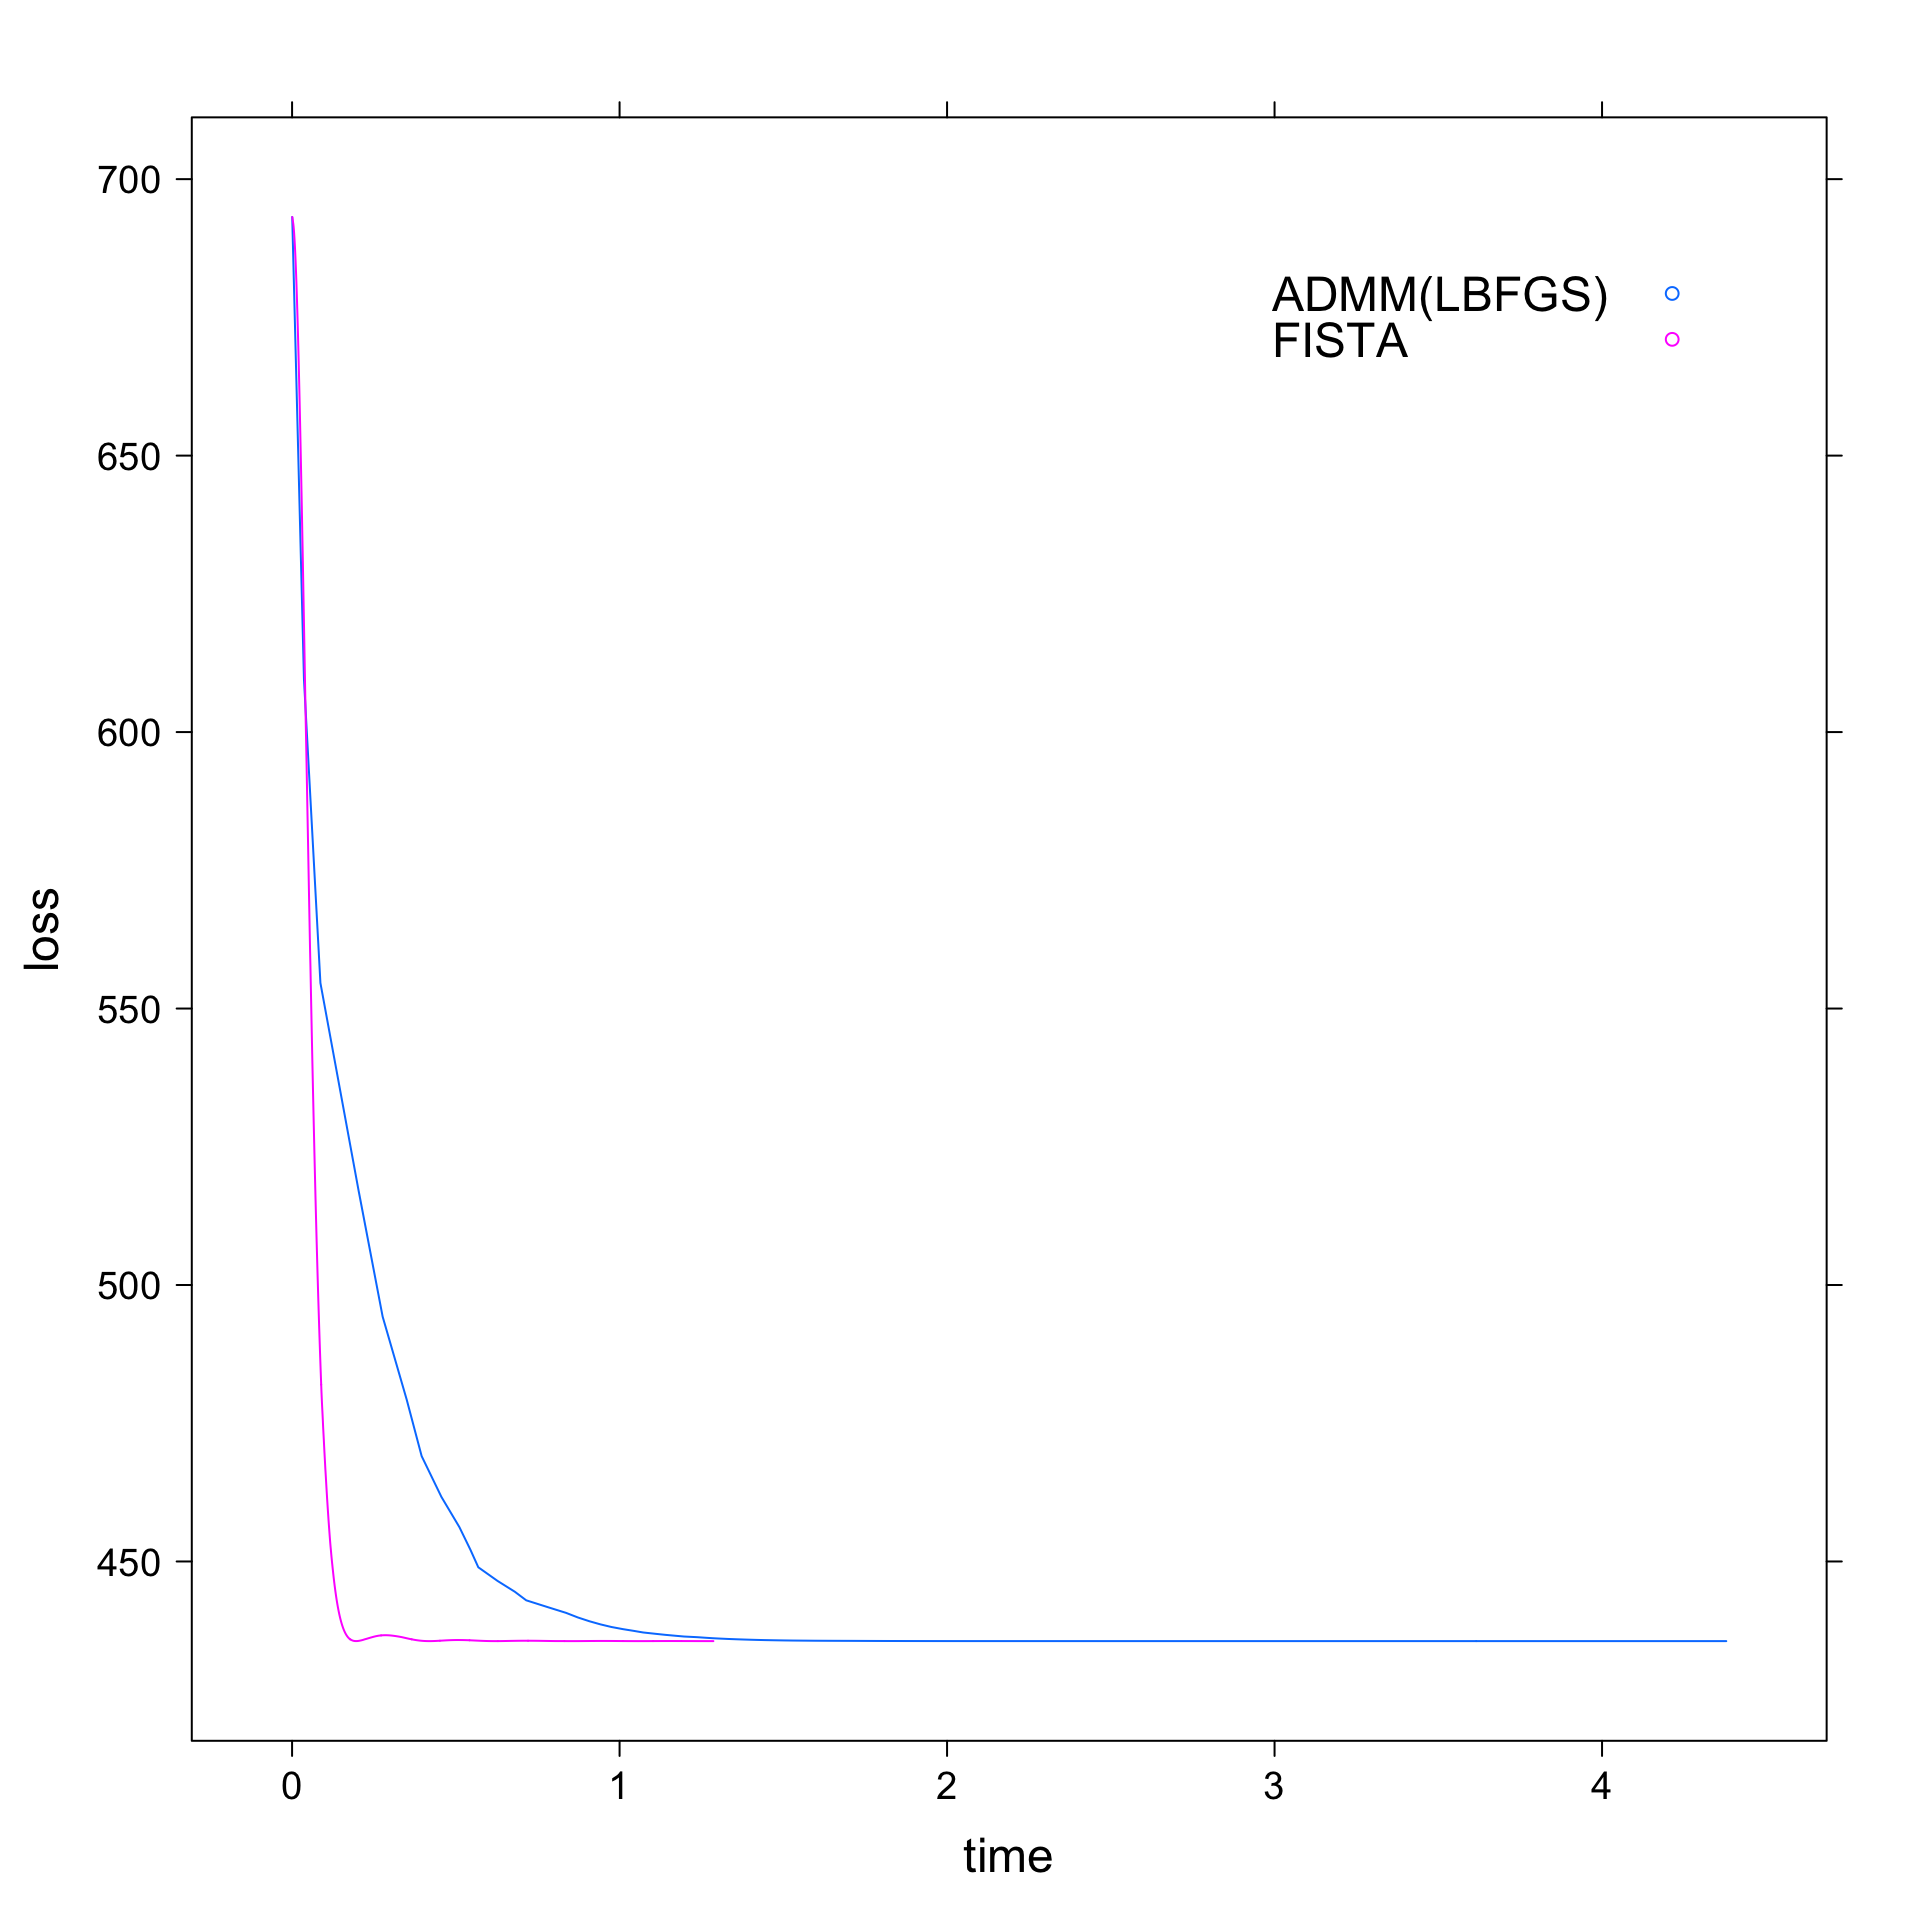
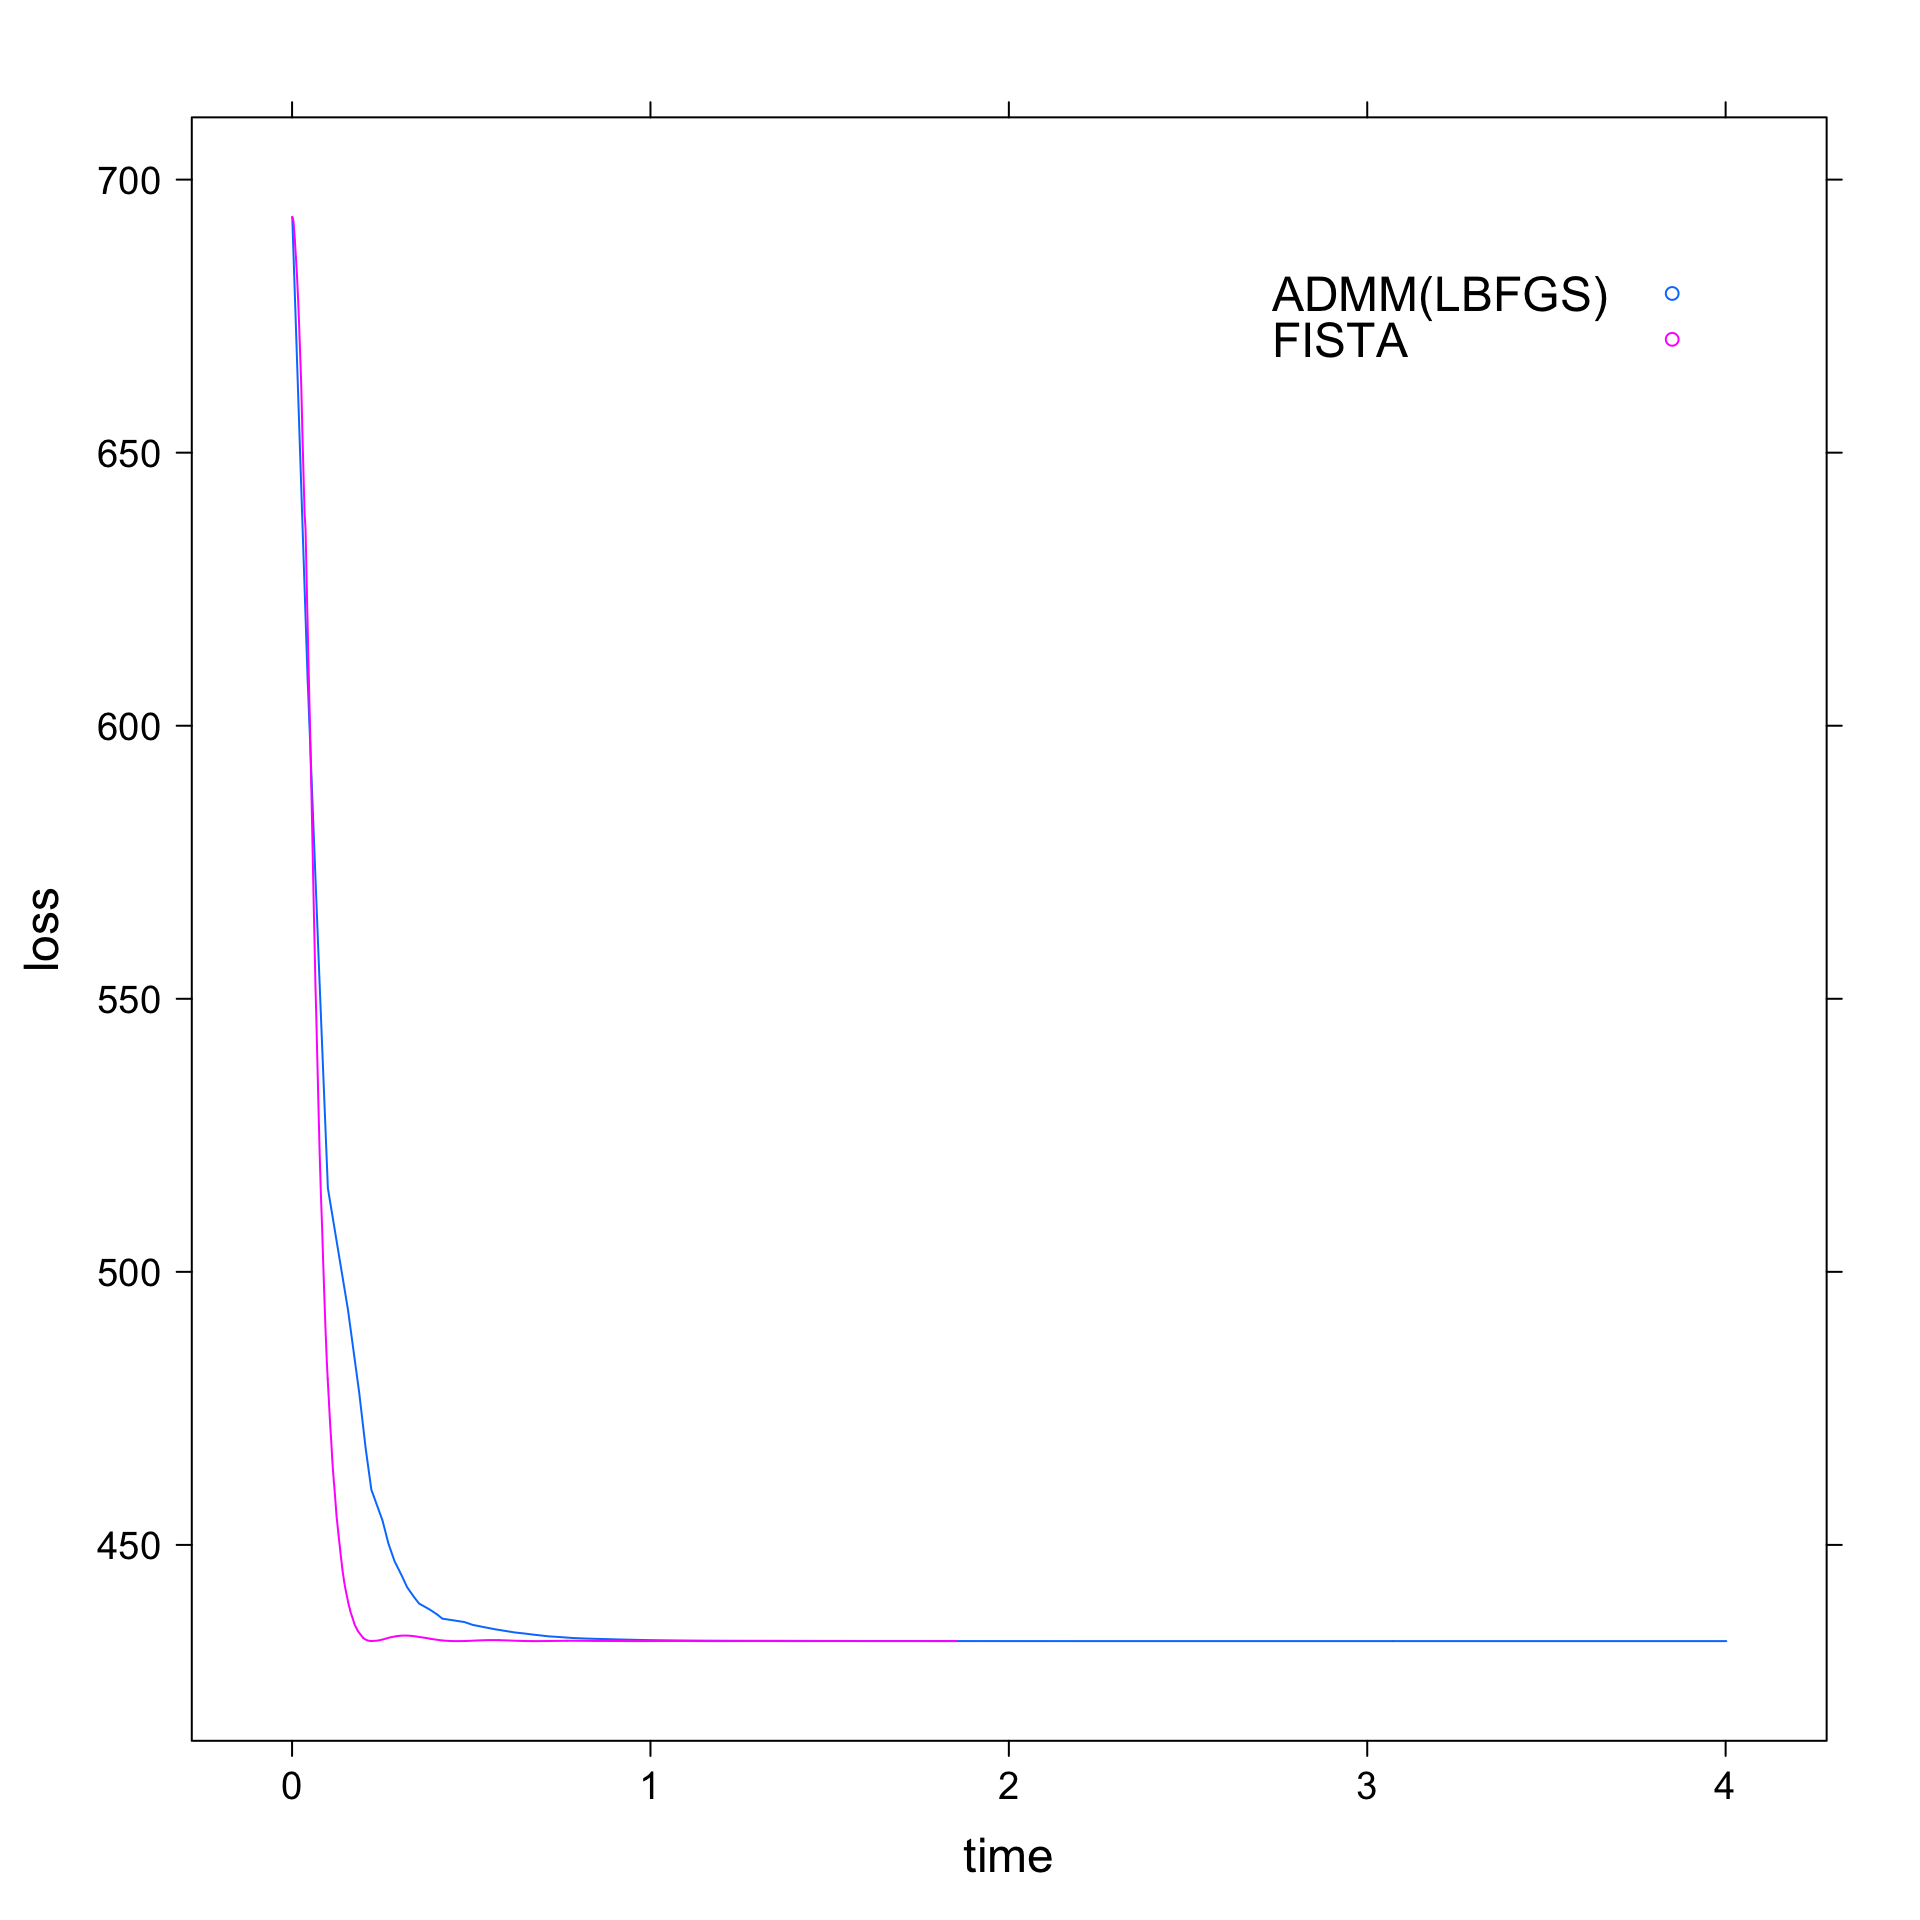
Built site for solvers: 1.0@79e1153

diff --git a/articles/compare_opt_algo.html b/articles/compare_opt_algo.html
@@ -110,9 +110,9 @@
 <div class="sourceCode" id="cb4"><pre class="downlit">
 <span class="co"># Comparing total execution time</span>
 <span class="fu"><a href="https://rdrr.io/r/base/print.html">print</a></span>(<span class="kw">admm_nr</span><span class="op">$</span><span class="kw">total_time</span>)
-<span class="co">#&gt; [1] 0.9589564</span>
+<span class="co">#&gt; [1] 0.9069063</span>
 <span class="fu"><a href="https://rdrr.io/r/base/print.html">print</a></span>(<span class="kw">admm_bfgs</span><span class="op">$</span><span class="kw">total_time</span>)
-<span class="co">#&gt; [1] 3.498741</span>
+<span class="co">#&gt; [1] 3.46496</span>
 </pre></div>
 <p>Now, these fits cannot be directly used to plot as they contain a lot of parameter so we’ll call a utility function that merges the relevant parameter and returns a dataframe.</p>
 <div class="sourceCode" id="cb5"><pre class="downlit">

diff --git a/articles/compare-fista-admm.html b/articles/compare-fista-admm.html
@@ -111,9 +111,9 @@
 <div class="sourceCode" id="cb4"><pre class="downlit">
 <span class="co"># Comparing total execution time</span>
 <span class="fu"><a href="https://rdrr.io/r/base/print.html">print</a></span>(<span class="kw">fista_fit</span><span class="op">$</span><span class="kw">total_time</span>)
-<span class="co">#&gt; [1] 1.287539</span>
+<span class="co">#&gt; [1] 1.85604</span>
 <span class="fu"><a href="https://rdrr.io/r/base/print.html">print</a></span>(<span class="kw">admm_fit</span><span class="op">$</span><span class="kw">total_time</span>)
-<span class="co">#&gt; [1] 4.425858</span>
+<span class="co">#&gt; [1] 4.038133</span>
 </pre></div>
 <p>Now, these fits cannot be directly used to plot as they contain a lot of parameter so we’ll call a utility function that merges the relevant parameter and returns a dataframe.</p>
 <div class="sourceCode" id="cb5"><pre class="downlit">
